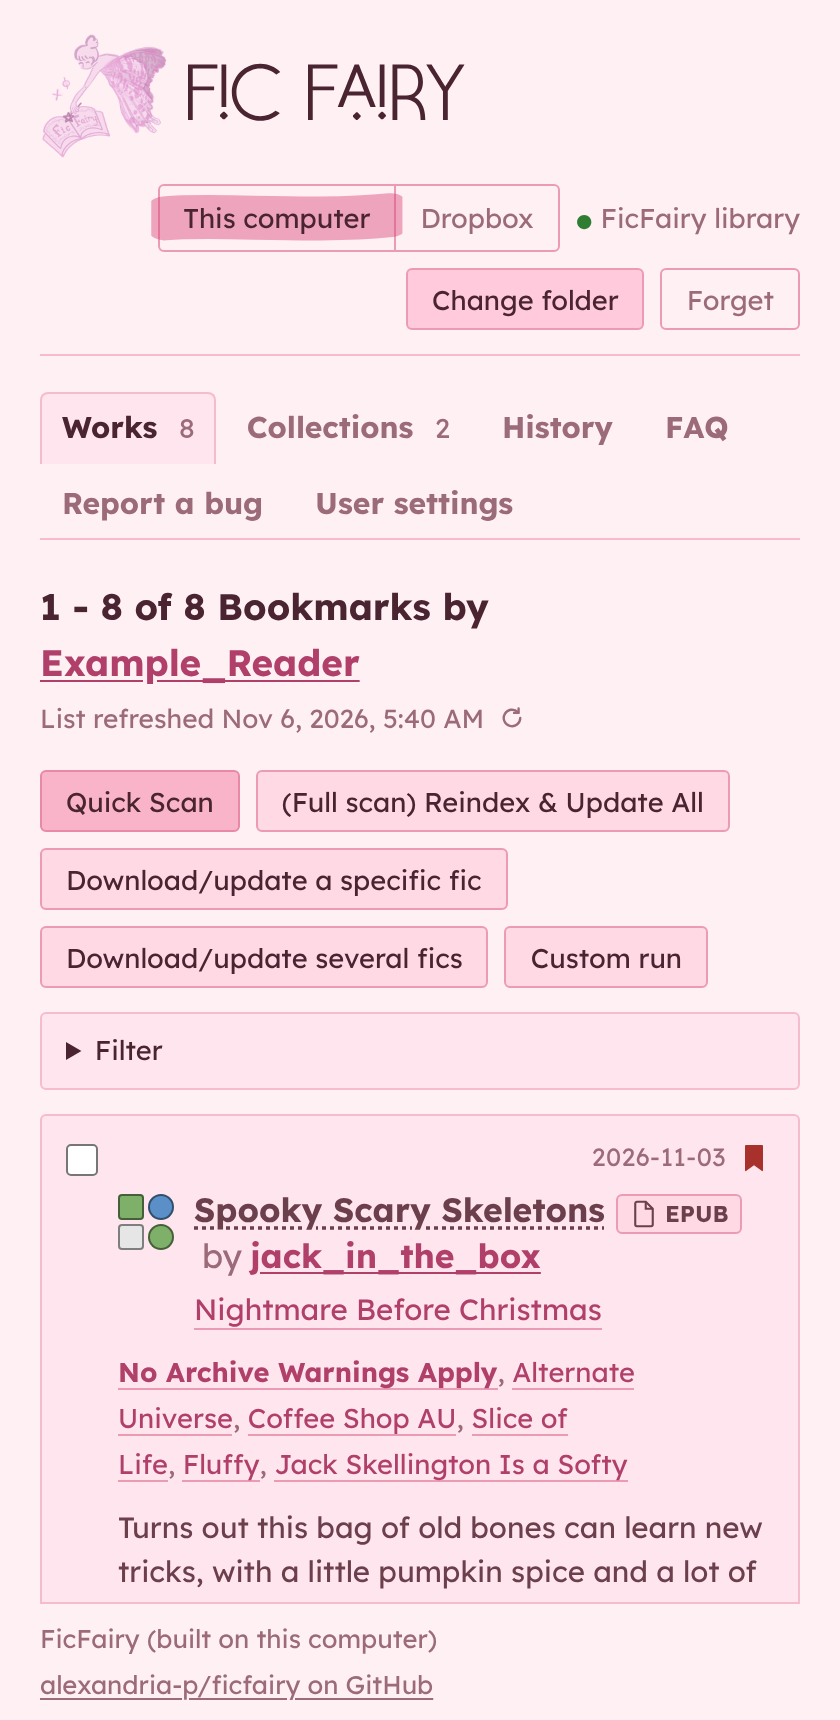
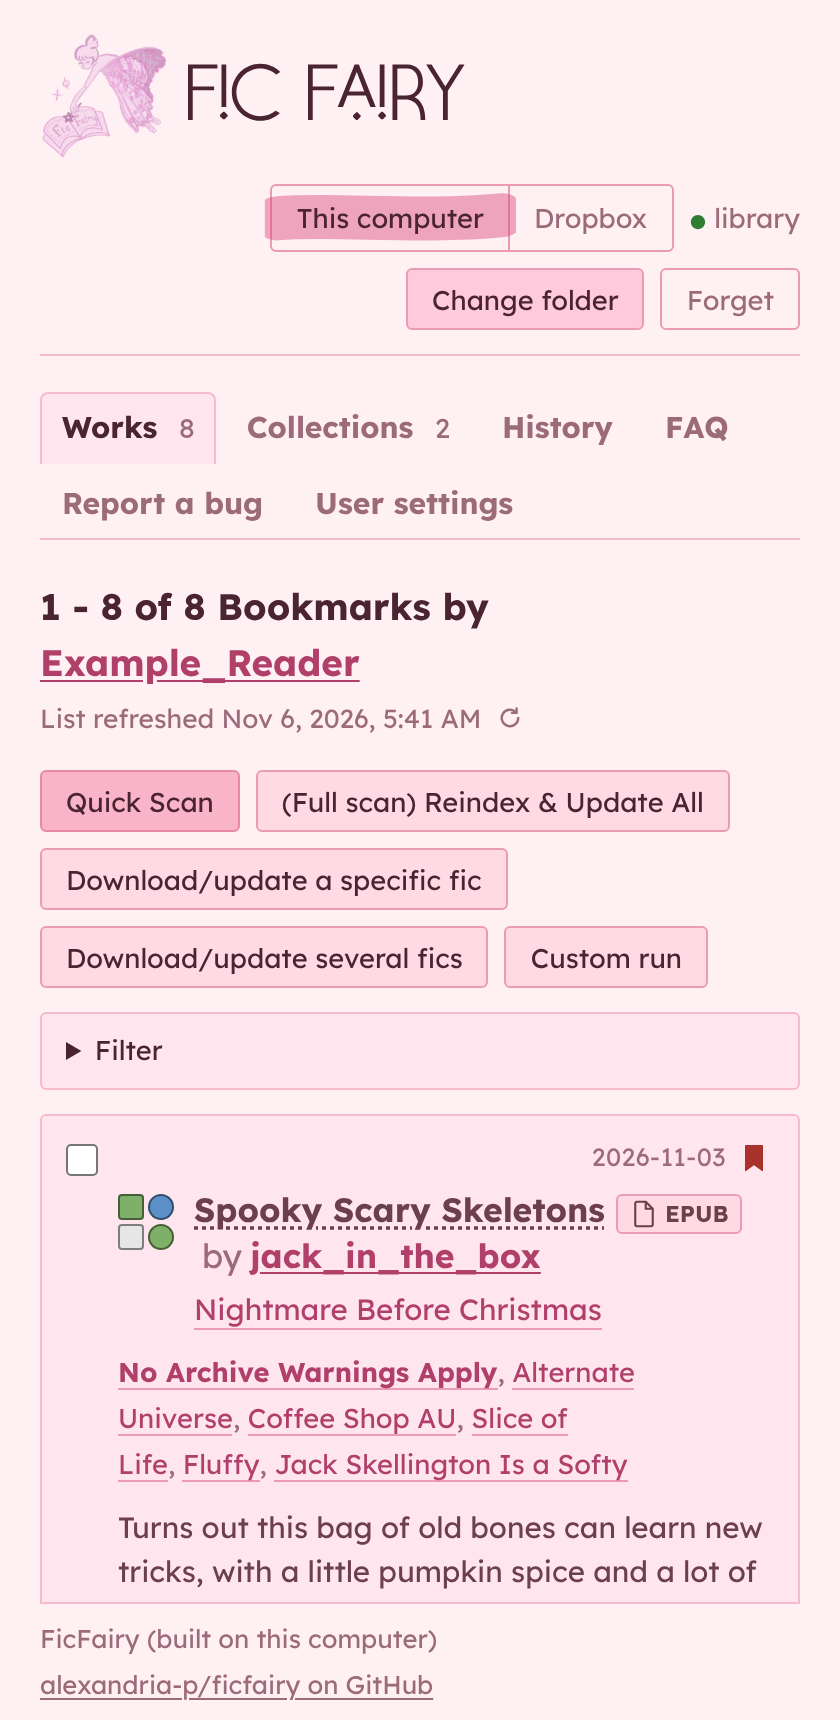
Screenshots: the library folder is named library
Claude-Session: https://claude.ai/code/session_014j8XzareNA3X2zgMNBKi8K

Changed region(s): [[0.1857, 0.0924, 0.8357, 0.1541], [0.4952, 0.4006, 0.619, 0.4314]]

diff --git a/docs/screenshots/make-screenshots.js b/docs/screenshots/make-screenshots.js
@@ -18,7 +18,7 @@ const PAGE = path.join(ROOT, 'gui_source', 'dist', 'ao3-bookmarks', 'browser');
 const OUT = process.argv[2] ? path.resolve(process.argv[2]) : __dirname;
 const PORT = 4200;
 const URL_ = `http://localhost:${PORT}/`;
-const LIBRARY_NAME = 'FicFairy library';
+const LIBRARY_NAME = 'library';
 // how every screenshot looks, but for the customisation strip, which shows three looks of its own
 const LOOK = { palette: 'strawberry-milk', font: 'lexend' };
 
